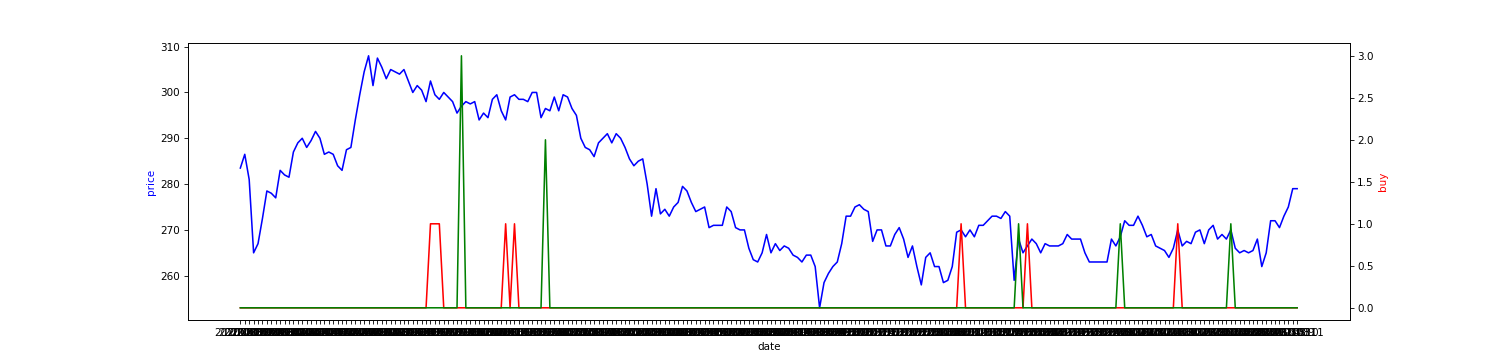
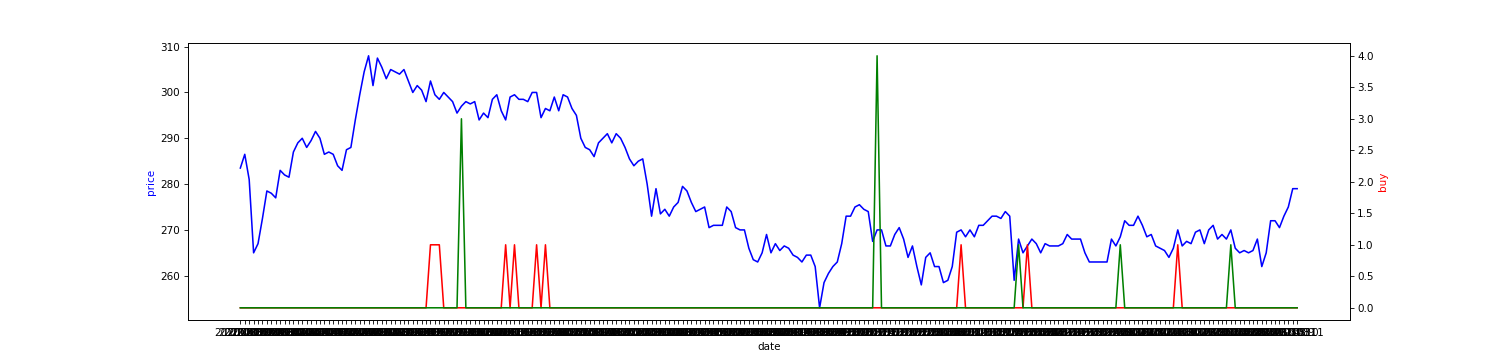
11bedf9c2048e3a08ed89e1e4d492995068d27b1

diff --git a/README.md b/README.md
@@ -2,24 +2,24 @@
 
 ![histogram](summary.png)
 
-Mean: 16.35, StDev: 24.27
+Mean: 16.25, StDev: 24.36
 
 ID|Performance|Invest|Benefit|Buy|Sell
 ---|---|---|---|---|---
+[2912](2912/)|-13.09|1216.13|-15919|10|10
 [2492](2492/)|-12.69|1477.43|-18749|16|11
+[1402](1402/)|-12.28|281.57|-3458|18|17
 [6271](6271/)|-12.18|1679.02|-20450|29|22
 [3044](3044/)|-11.25|420.62|-4732|10|10
 [4938](4938/)|-10.94|251.83|-2755|11|11
-[1707](1707/)|-10.81|201.8|-2181|3|3
-[1402](1402/)|-10.54|281.57|-2968|16|15
 [2474](2474/)|-10.48|901.35|-9446|12|11
 [5522](5522/)|-9.57|281.58|-2695|18|17
 [2618](2618/)|-7.71|81.8|-631|23|20
 [2642](2642/)|-7.18|179.52|-1289|15|15
+[1707](1707/)|-6.74|369.22|-2489|4|4
 [2354](2354/)|-6.43|521.31|-3352|12|12
-[1101](1101/)|-5.31|256.33|-1361|12|12
+[1101](1101/)|-5.55|256.33|-1423|12|12
 [3008](3008/)|-4.69|7302.4|-34248|7|5
-[2912](2912/)|-4.28|903.35|-3866|8|8
 [2633](2633/)|-4.24|189.78|-805|6|6
 [1216](1216/)|-4.06|509.76|-2070|14|13
 [2412](2412/)|-3.81|227.34|-866|4|4
@@ -30,17 +30,17 @@ ID|Performance|Invest|Benefit|Buy|Sell
 [1314](1314/)|-1.46|96.62|-141|27|26
 [4927](4927/)|-1.16|493.11|-572|14|13
 [2357](2357/)|-0.98|2717.01|-2663|17|14
-[1722](1722/)|-0.91|530.39|-483|13|10
+[2002](2002/)|-0.95|124.2|-118|13|11
 [2301](2301/)|-0.22|229.87|-51|11|11
+[1722](1722/)|-0.06|578.42|-35|14|11
 [3714](3714/)|0|0|0|0|0
 [6278](6278/)|0.62|1639.8|1017|23|8
 [2884](2884/)|0.76|108.81|83|5|5
 [6505](6505/)|1.27|1321.13|1678|20|20
 [6456](6456/)|2.06|1348.92|2779|27|23
-[1326](1326/)|2.68|396.63|1063|13|12
+[1326](1326/)|2.68|554.66|1486|15|14
 [2458](2458/)|2.88|1372.53|3953|22|14
 [3711](3711/)|3.92|633.65|2484|21|20
-[2002](2002/)|3.96|118.32|469|11|9
 [2327](2327/)|4.58|5134.69|23517|21|21
 [4919](4919/)|4.61|374.27|1725|22|22
 [2207](2207/)|5.05|2667.04|13469|10|10
@@ -57,7 +57,7 @@ ID|Performance|Invest|Benefit|Buy|Sell
 [3189](3189/)|9.5|897.11|8523|37|33
 [8016](8016/)|10.61|1379.57|14637|18|15
 [6533](6533/)|10.65|2627.44|27982|33|30
-[1301](1301/)|11.15|598.5|6673|17|15
+[1301](1301/)|12.03|598.72|7203|18|16
 [4968](4968/)|13.47|3627.39|48861|27|20
 [2377](2377/)|13.6|1891.79|25728|27|13
 [2353](2353/)|13.61|216.66|2949|22|13
